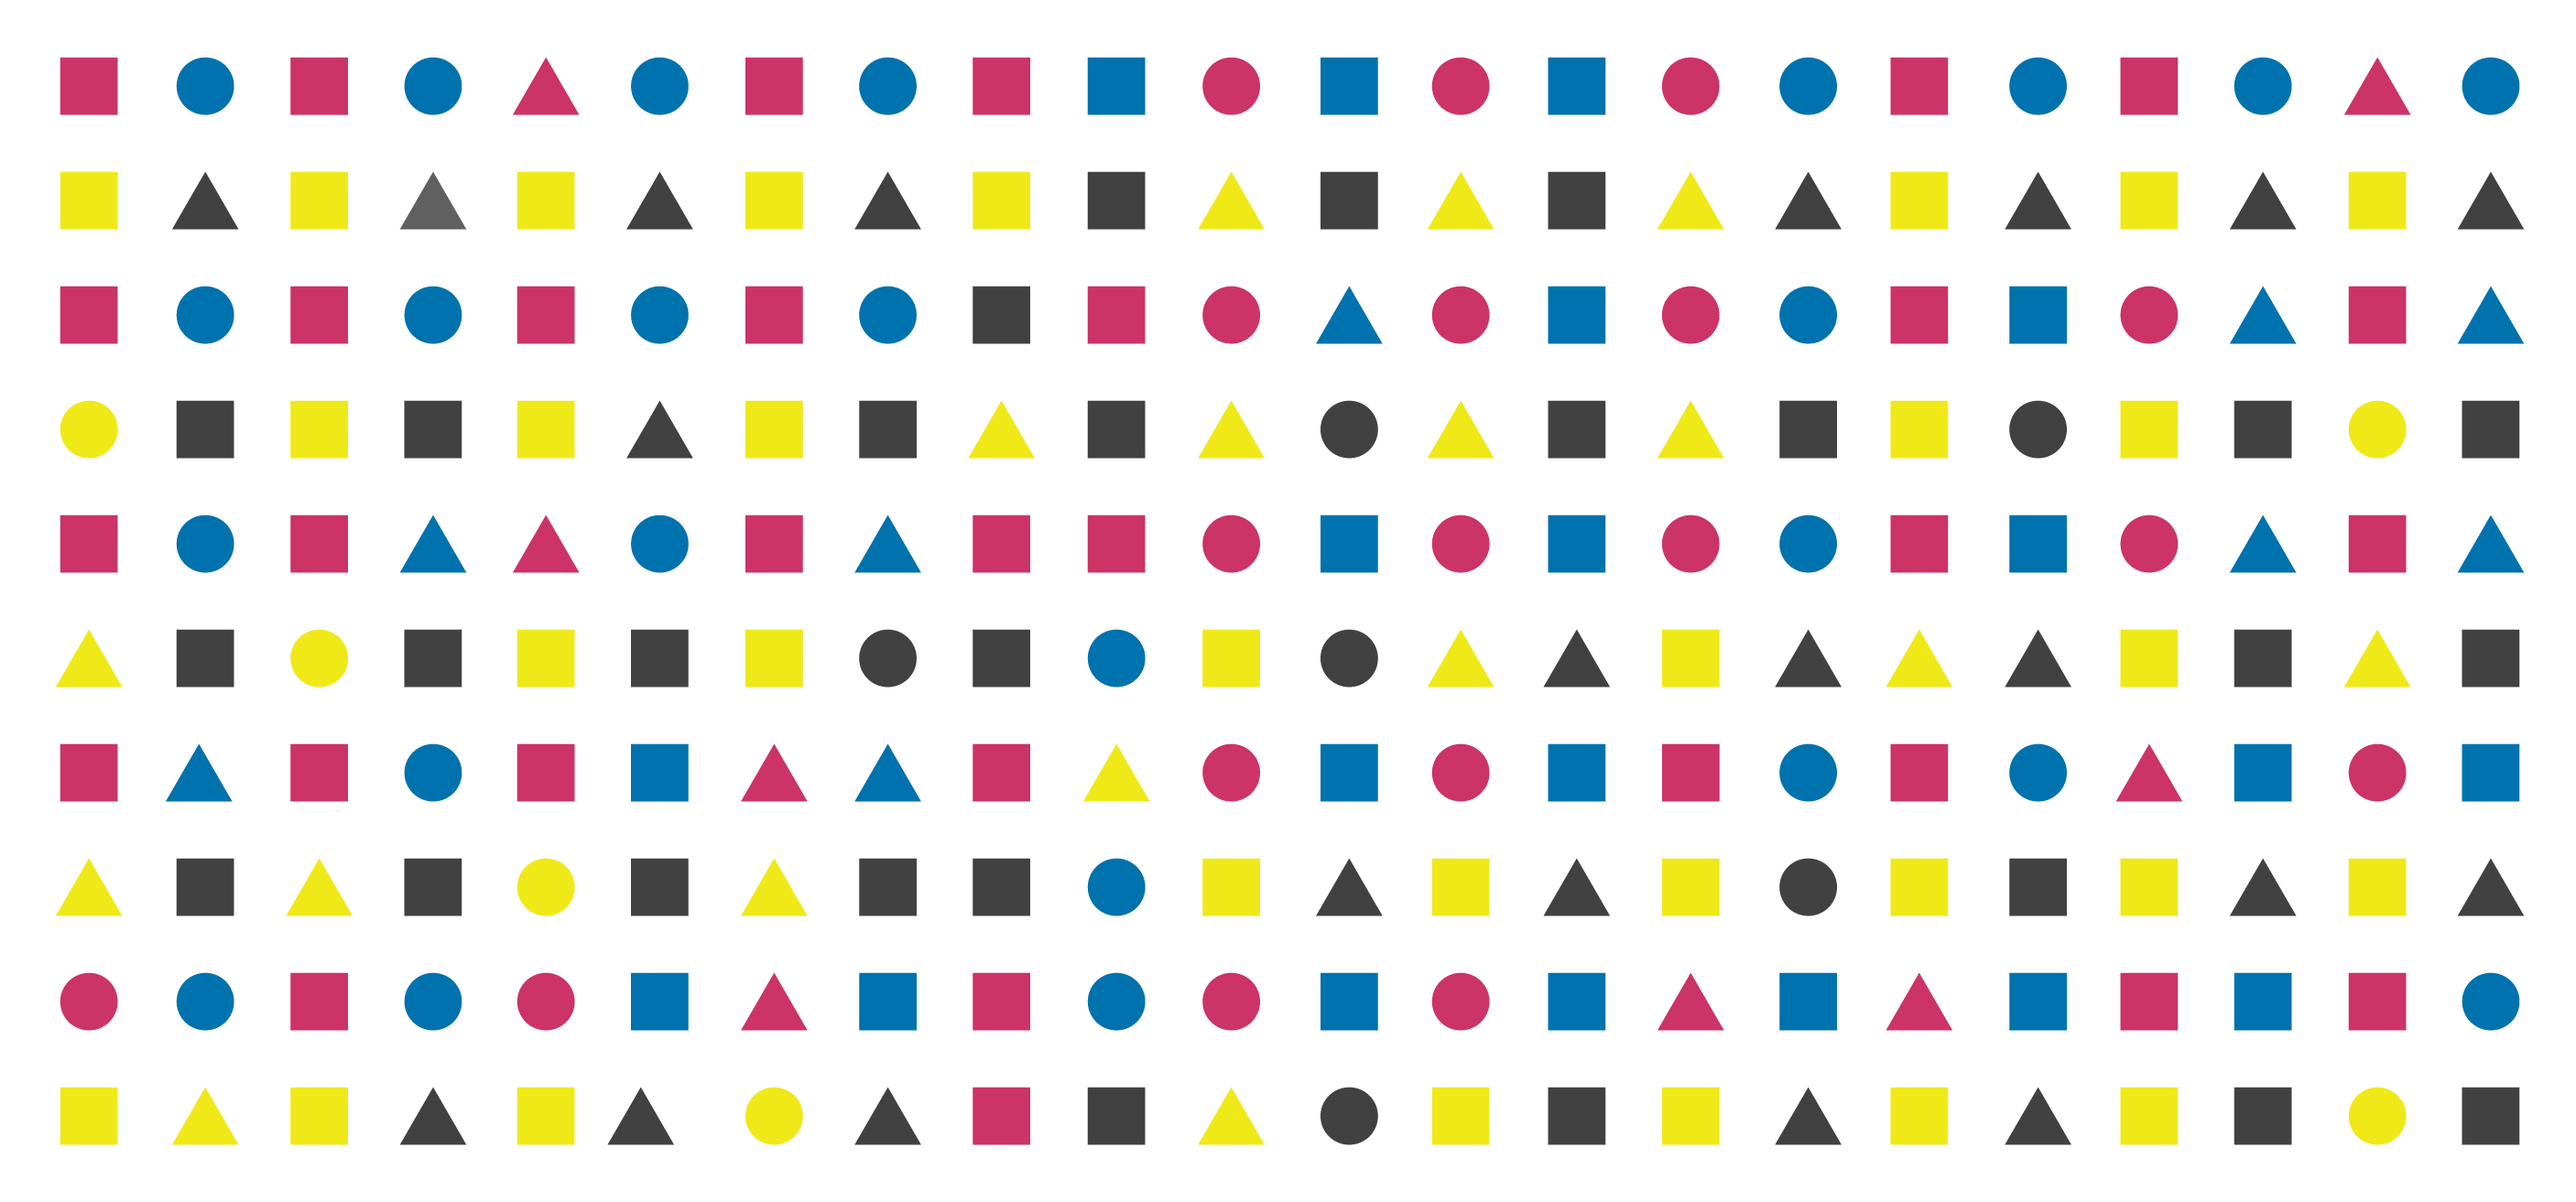
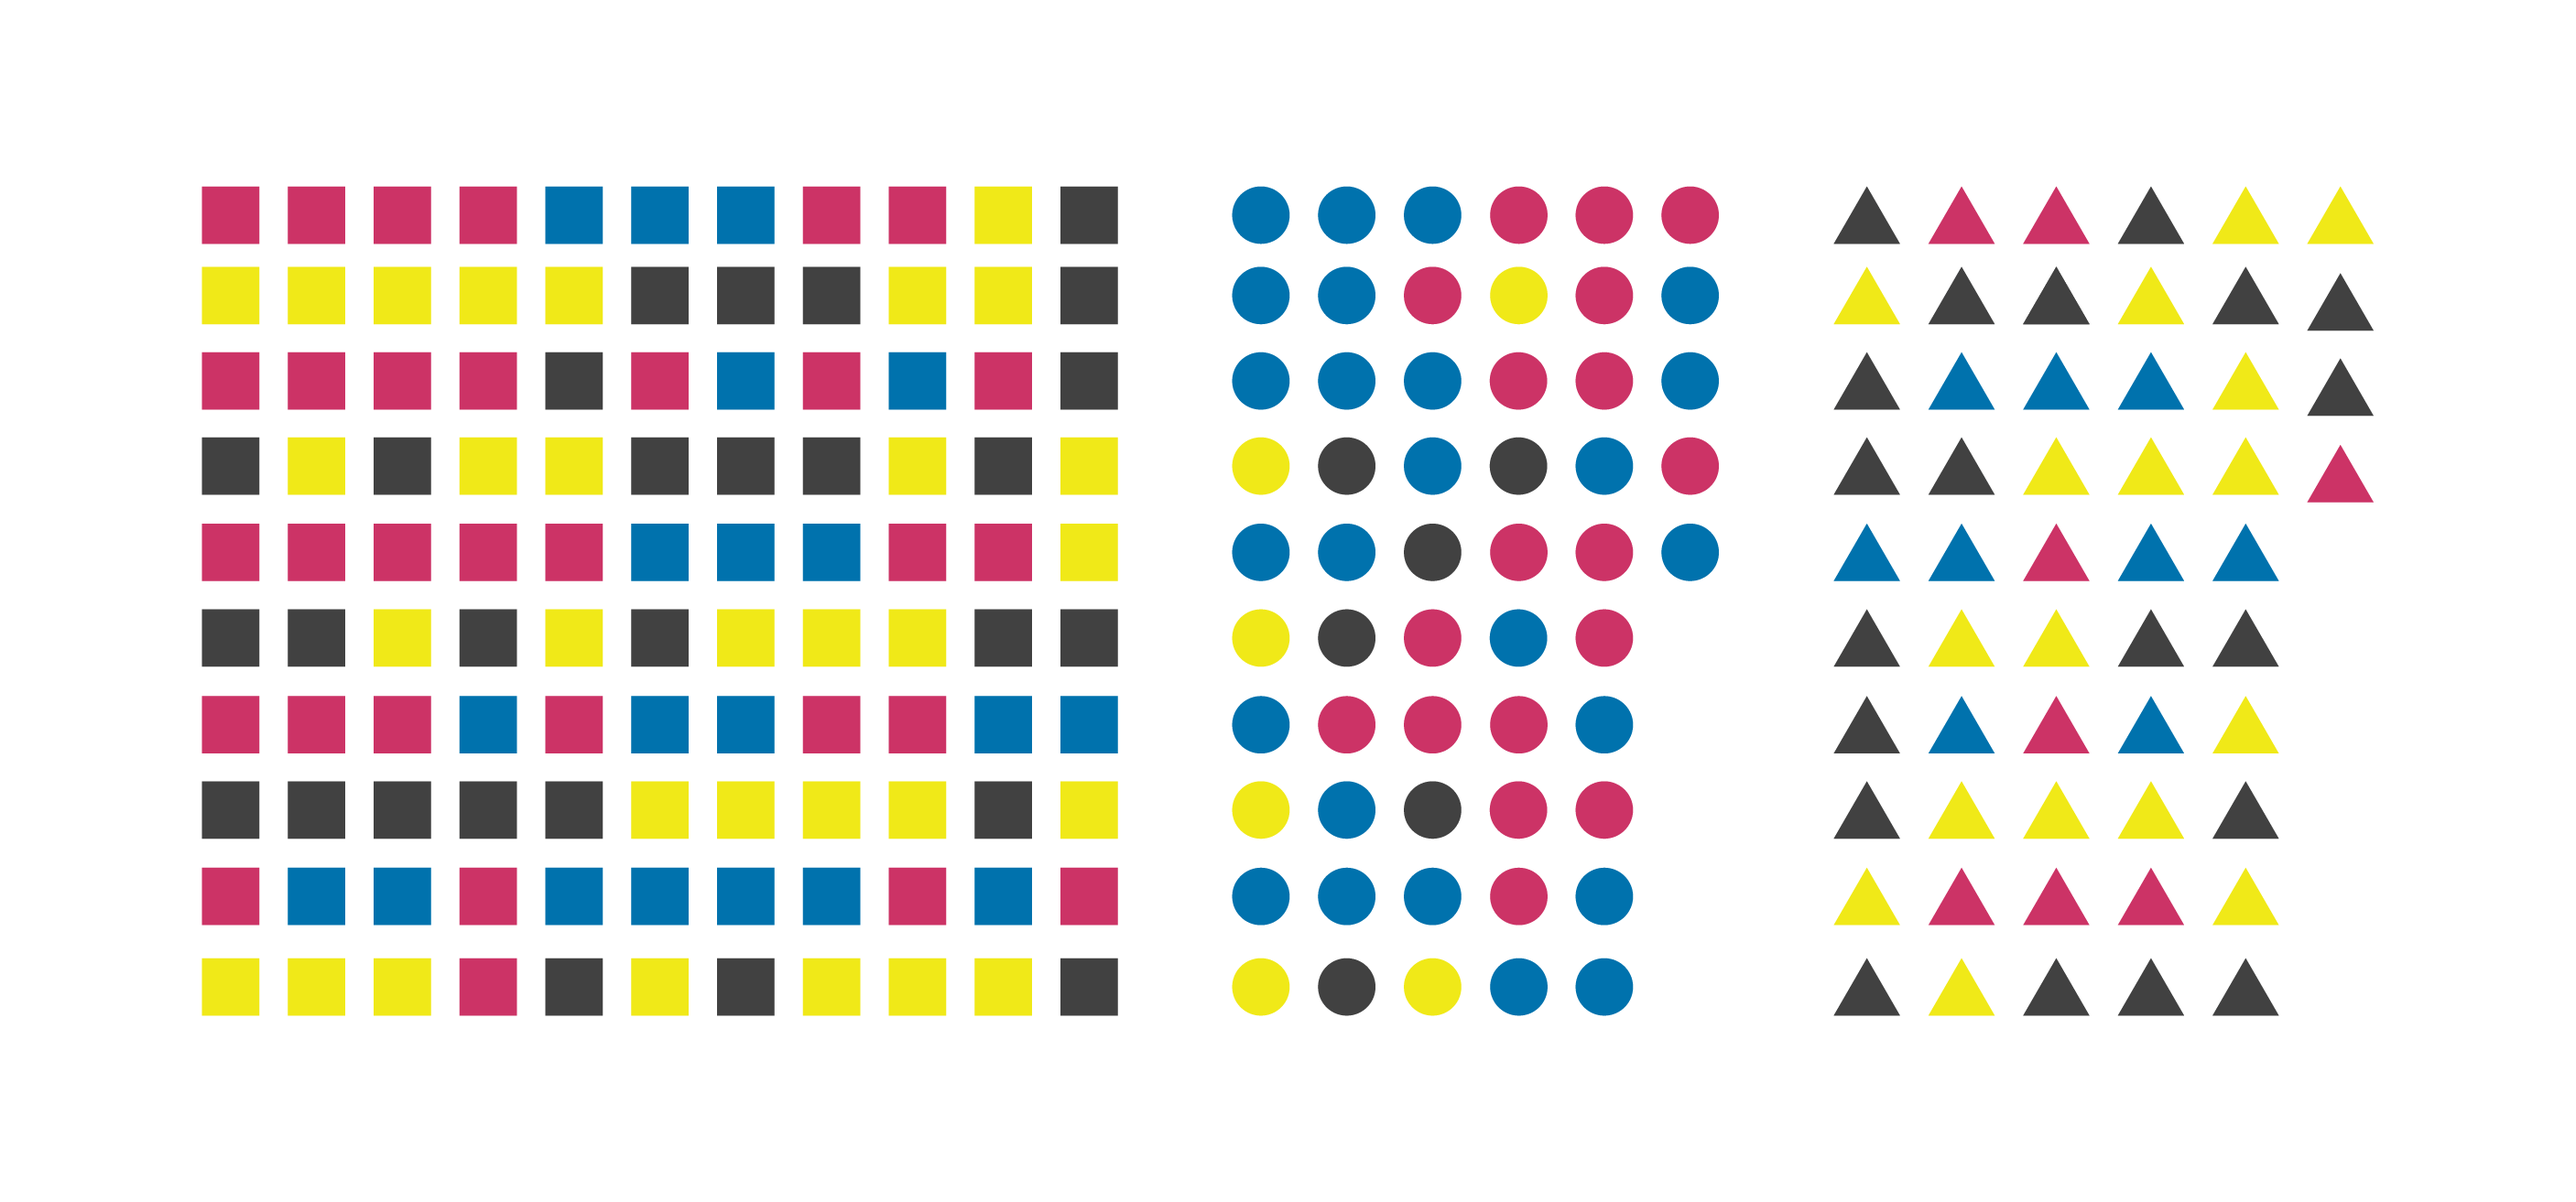
Update

diff --git a/_posts/2021-02-07-the-visual-breakdown-of-information.md b/_posts/2021-02-07-the-visual-breakdown-of-information.md
@@ -101,11 +101,11 @@ Why do we struggle to list these items down? It mostly goes back to the fact tha
 
 How do we make this easier to process?
 
-![A series of squares, triangles, and circles with differing colours arranged in sets according to their shapes.](/assets/images/visual-breakdown/5.png "Field of shapes arranged by form")
+![A series of squares, triangles, and circles with differing colours arranged in sets according to their shapes.](/assets/images/visual-breakdown/6.png "Field of shapes arranged by form")
 
 It's significantly faster to list out shapes present, but listing them down by colour is hard because they're still not arranged in a way to promote colour identification.
 
-![A series of squares, triangles, and circles with differing colours arranged in sets according to their shapes and colours.](/assets/images/visual-breakdown/6.png "Field of shapes arranged by form and colour")
+![A series of squares, triangles, and circles with differing colours arranged in sets according to their shapes and colours.](/assets/images/visual-breakdown/7.png "Field of shapes arranged by form and colour")
 
 Notice how much easier it is to list out the information here?
 
